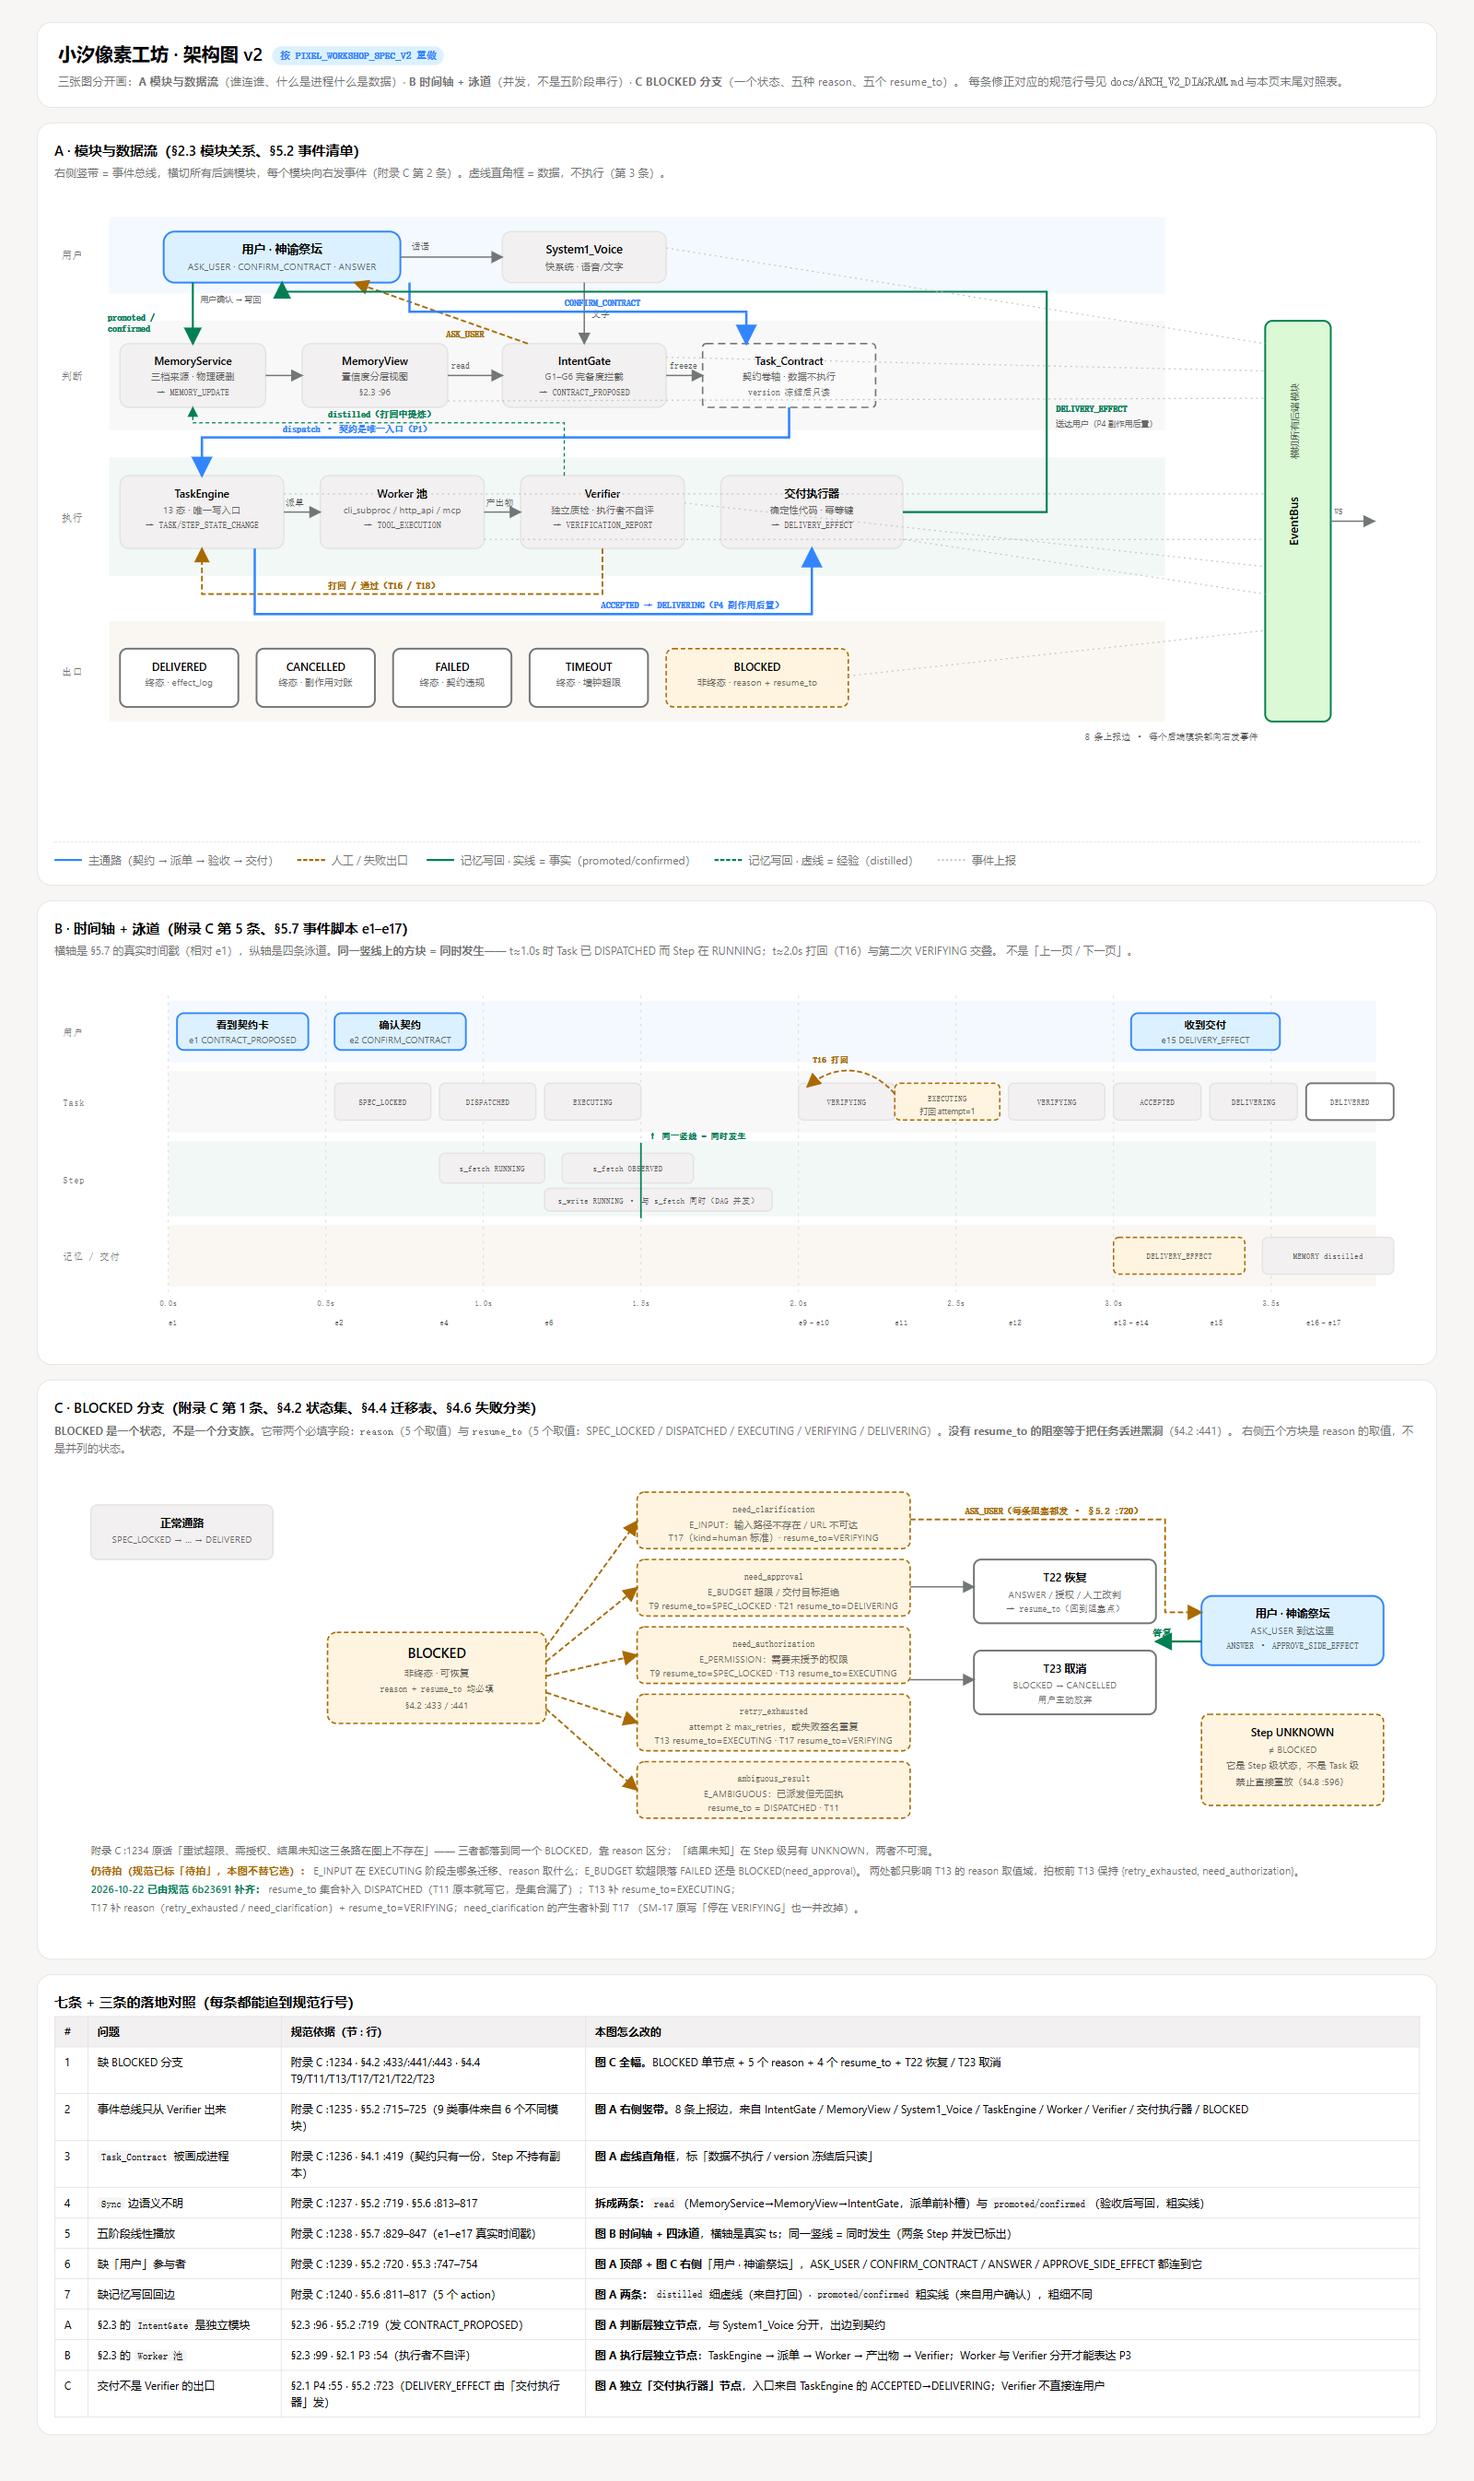
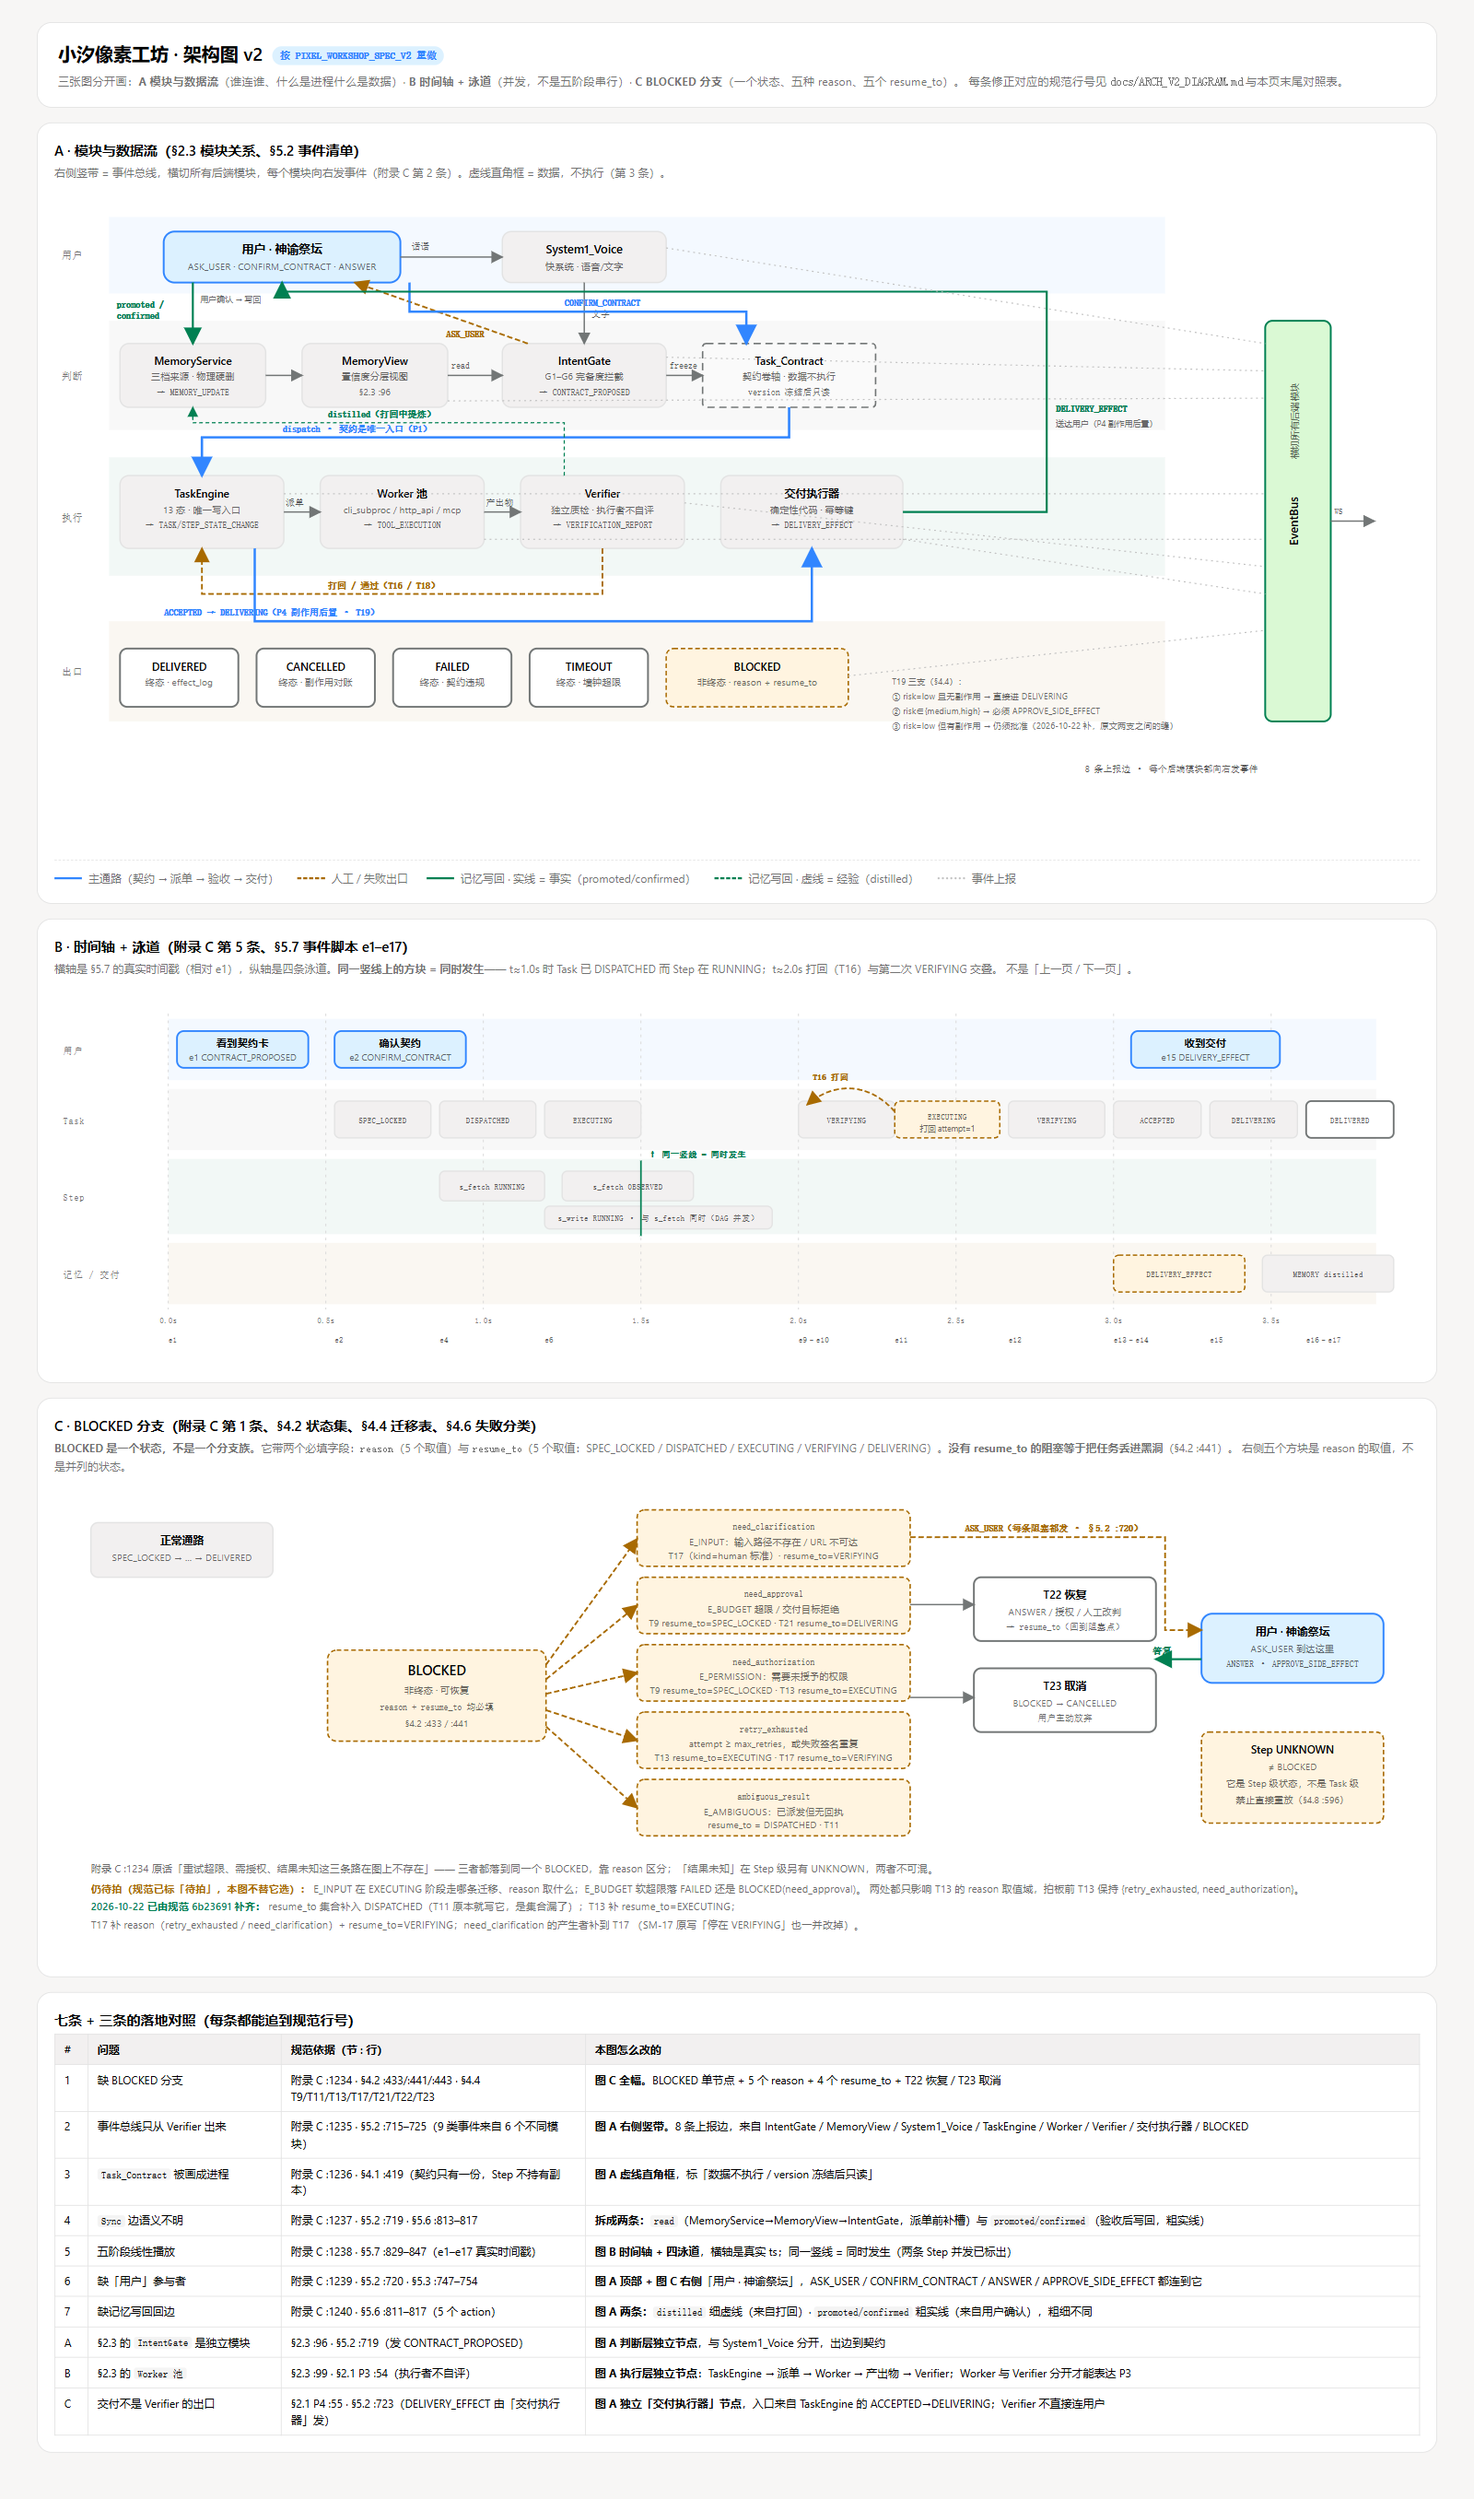
docs(arch): 图 v2 补 T19 第三支（risk=low 且有副作用），并修三处标签重叠

diff --git a/docs/ARCH_V2_DIAGRAM.html b/docs/ARCH_V2_DIAGRAM.html
@@ -74,7 +74,7 @@
 <div class="board" id="board-a">
   <h2>A · 模块与数据流（§2.3 模块关系、§5.2 事件清单）</h2>
   <div class="note">右侧竖带 = 事件总线，横切所有后端模块，每个模块向右发事件（附录 C 第 2 条）。虚线直角框 = 数据，不执行（第 3 条）。</div>
-  <svg viewBox="0 0 1500 700" role="img" aria-label="模块与数据流">
+  <svg viewBox="0 0 1500 720" role="img" aria-label="模块与数据流">
     <defs>
       <marker id="a-ar" markerWidth="9" markerHeight="9" refX="8" refY="4.5" orient="auto"><path d="M0,0 L9,4.5 L0,9 z" fill="#727676"/></marker>
       <marker id="a-arb" markerWidth="9" markerHeight="9" refX="8" refY="4.5" orient="auto"><path d="M0,0 L9,4.5 L0,9 z" fill="#3186ff"/></marker>
@@ -210,8 +210,12 @@
     <text class="lbl-w" x="300" y="434">打回 / 通过（T16 / T18）</text>
 
     <!-- TaskEngine -> 交付执行器：ACCEPTED→DELIVERING（y=462 通道） -->
-    <path class="edge-b" d="M 220 390 L 220 462 L 832 462 L 832 390" marker-end="url(#a-arb)"/>
-    <text class="lbl-b" x="600" y="456">ACCEPTED → DELIVERING（P4 副作用后置）</text>
+    <path class="edge-b" d="M 220 390 L 220 470 L 832 470 L 832 390" marker-end="url(#a-arb)"/>
+    <text class="lbl-b" x="120" y="464">ACCEPTED → DELIVERING（P4 副作用后置 · T19）</text>
+    <text class="s" x="920" y="540" style="font-size:9.5px">T19 三支（§4.4）：</text>
+    <text class="s" x="920" y="556" style="font-size:9.5px">① risk=low 且无副作用 → 直接进 DELIVERING</text>
+    <text class="s" x="920" y="572" style="font-size:9.5px">② risk∈{medium,high} → 必须 APPROVE_SIDE_EFFECT</text>
+    <text class="s" x="920" y="588" style="font-size:9.5px">③ risk=low 但有副作用 → 仍须批准（2026-10-22 补，原文两支之间的缝）</text>
 
     <!-- 交付执行器 -> 用户：DELIVERY_EFFECT（y=118 通道） -->
     <path class="edge-m" d="M 932 350 L 1090 350 L 1090 108 L 250 108 L 250 98" marker-end="url(#a-arm)"/>
@@ -221,8 +225,8 @@
     <!-- 用户 -> MemoryService：promoted / confirmed（实线） -->
     <path class="edge-m" d="M 152 98 L 152 165" marker-end="url(#a-arm)"/>
     <text class="s" x="160" y="120" style="font-size:9px">用户确认 → 写回</text>
-    <text class="lbl-m" x="58" y="140">promoted /</text>
-    <text class="lbl-m" x="58" y="152">confirmed</text>
+    <text class="lbl-m" x="68" y="126">promoted /</text>
+    <text class="lbl-m" x="68" y="138">confirmed</text>
 
     <!-- Verifier -> MemoryService：distilled（虚线，y=252 通道） -->
     <path class="edge-m-dash" d="M 560 310 L 560 252 L 152 252 L 152 235" marker-end="url(#a-arm)"/>
@@ -237,7 +241,7 @@
     <path class="edge-faint" d="M 692 340 L 1330 410"/>
     <path class="edge-faint" d="M 932 380 L 1330 440"/>
     <path class="edge-faint" d="M 872 530 L 1330 480"/>
-    <text class="lbl" x="1322" y="600" text-anchor="end">8 条上报边 · 每个后端模块都向右发事件</text>
+    <text class="lbl" x="1322" y="636" text-anchor="end">8 条上报边 · 每个后端模块都向右发事件</text>
 
     <!-- 总线 -> 前端 -->
     <path class="edge" d="M 1402 360 L 1450 360" marker-end="url(#a-ar)"/>

diff --git a/docs/ARCH_V2_DIAGRAM.md b/docs/ARCH_V2_DIAGRAM.md
@@ -90,6 +90,19 @@ T17  VERIFYING → BLOCKED   reason=retry_exhausted | need_clarification      re
 
 > **教训**：判据「每个 `reason` 都要有产生它的迁移行」（正向）和「每个 `resume_to` 值都要在集合内」（反向）是**两个方向**，我做了第一个就以为覆盖完了。
 
+### 3.5 T19 的第三支（`risk==low` 且有副作用）—— 规范补了，图跟着补
+
+**我初版没画这一支**，因为图 A 里 `ACCEPTED → DELIVERING` 只有一条线，没展开 T19 的条件分支。规范 `6b23691` 之后又有新提交补上了这一支：
+
+原文 T19 只写两支：
+
+- `risk==low` 且无副作用 → 直接进入
+- `risk∈{medium,high}` → 必须 `APPROVE_SIDE_EFFECT`
+
+**`risk==low` 但有副作用**这个组合落在两支之间的缝里，规范没说怎么办。补的判据是：**要不要批准取决于「有没有副作用」，与 `risk` 无关**——`APPROVE_SIDE_EFFECT` 防的是「会改变世界的那一下」，而 `risk` 是按槽位置信度算的，两者是不同维度（§3.4 与 §6.2 各自定义）。
+
+图 A 已在 `ACCEPTED → DELIVERING` 那条边旁标出三支，第三支注明「2026-10-22 补，规范原文两支之间的缝」。
+
 ---
 
 ## 四、草稿 `tmp/arch-v2.html` 为什么没用
